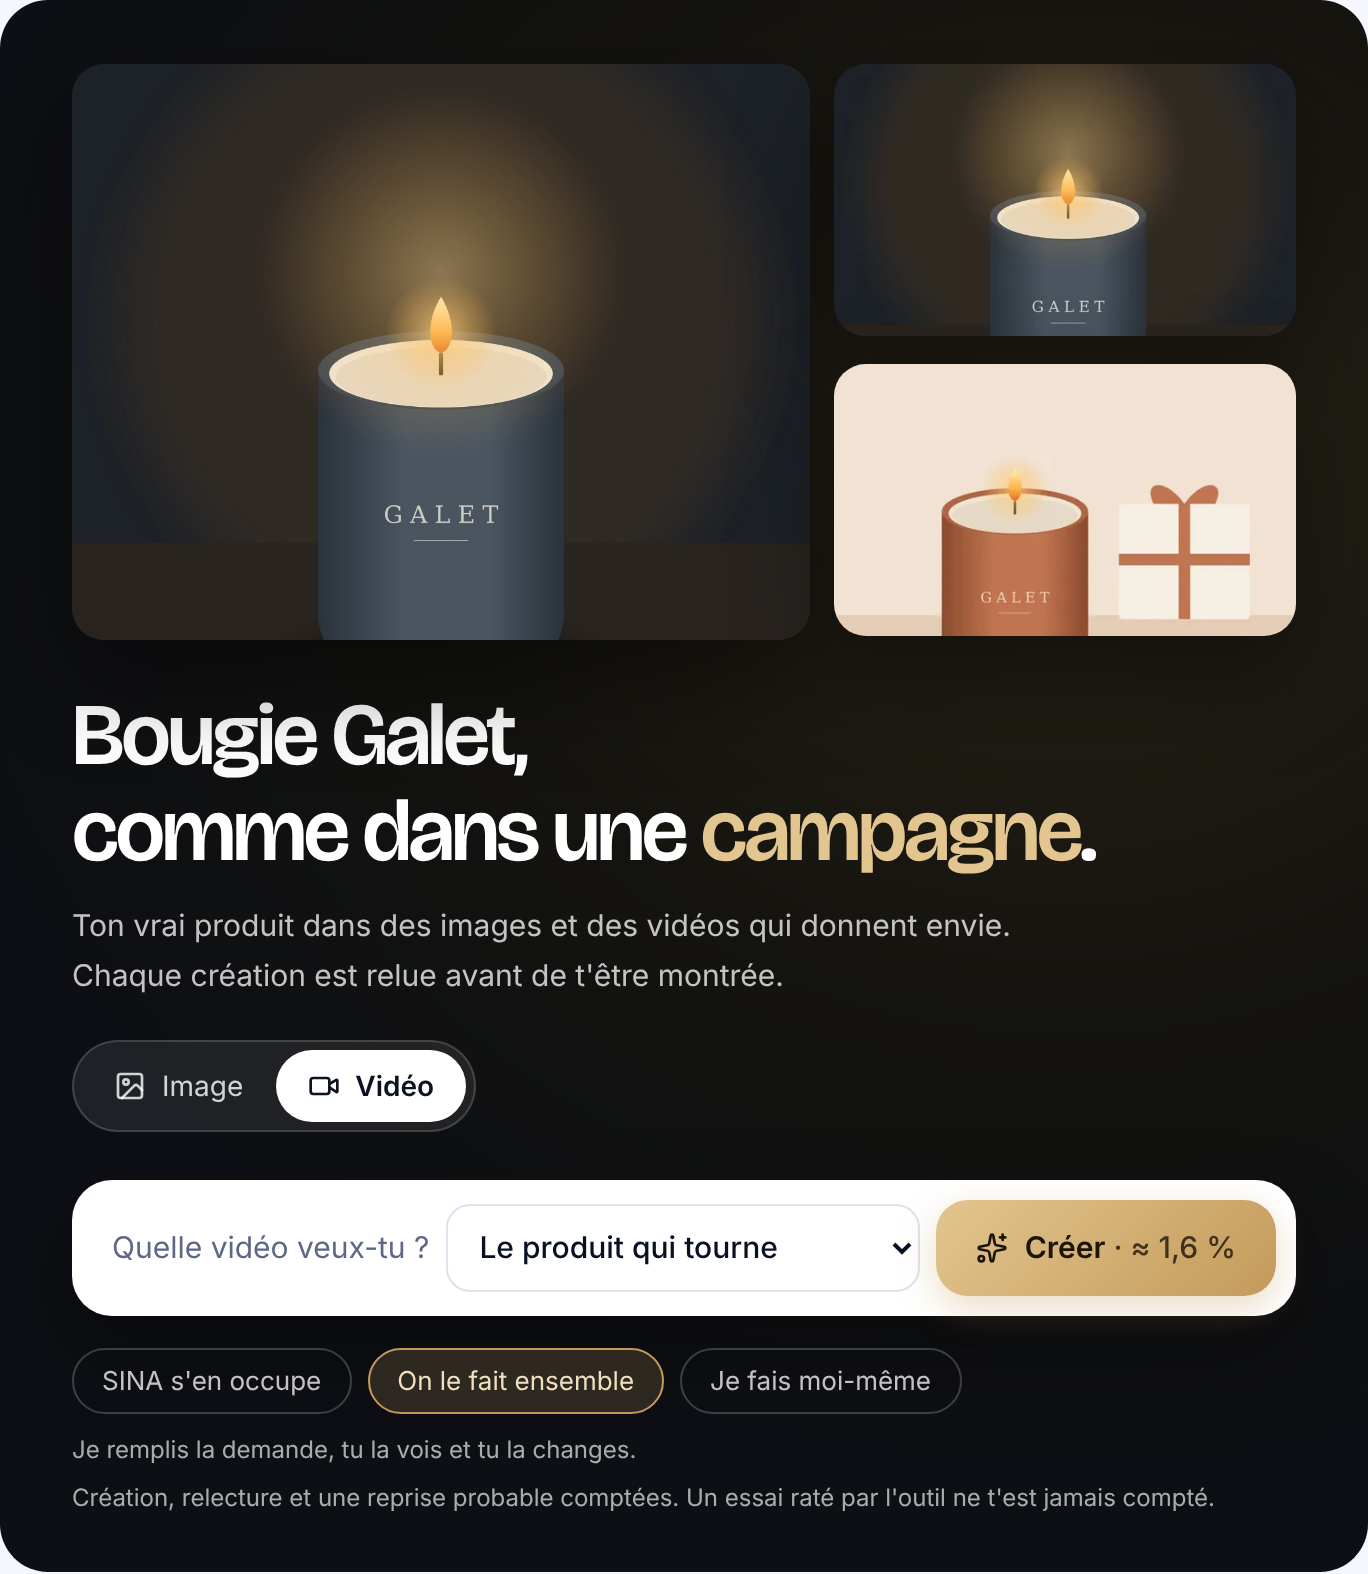
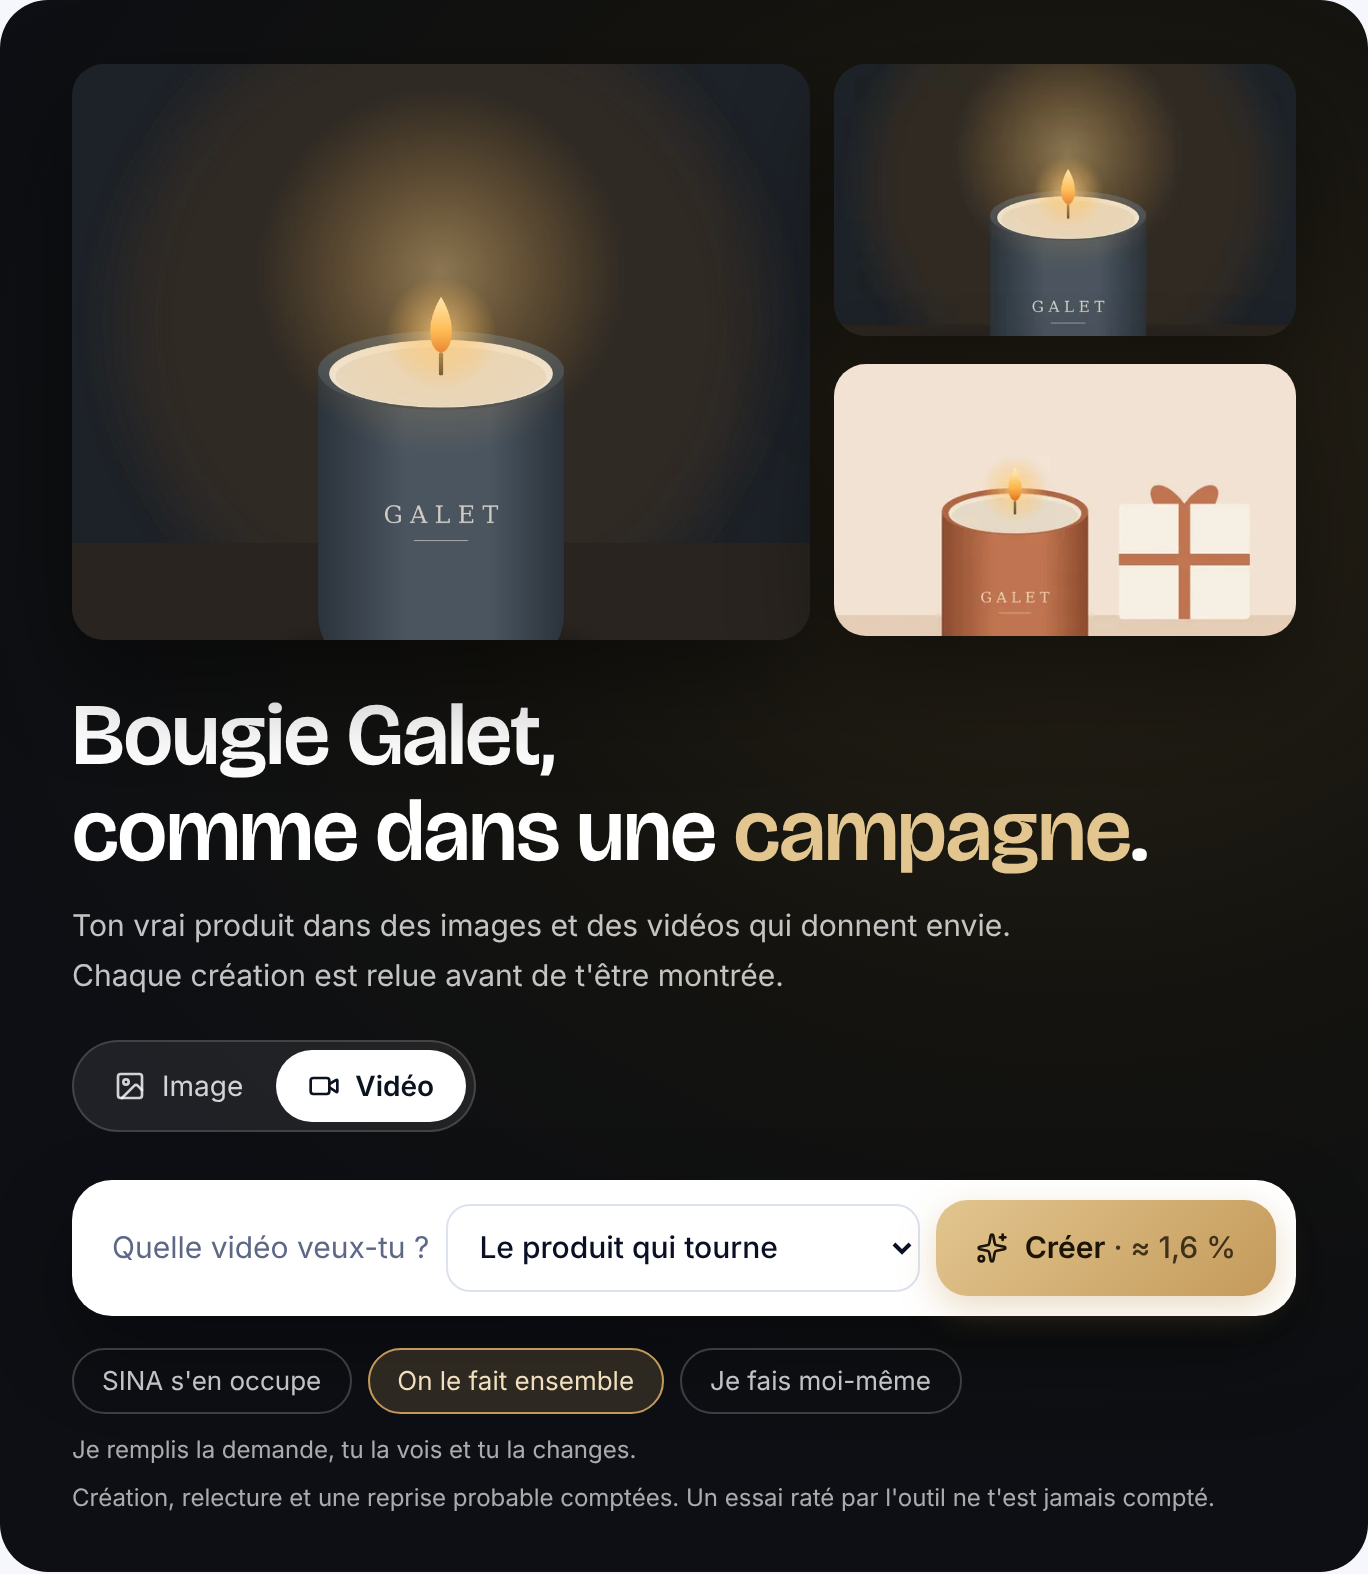
Atelier : « format vertical » au lieu de « story » en français, durée des modèles de vidéo tirée du devis, titres moins serrés, captures refaites

Changed region(s): [[0.0921, 0.4358, 0.8289, 0.5604]]

diff --git a/src/components/studio/tab-atelier.tsx b/src/components/studio/tab-atelier.tsx
@@ -26,7 +26,7 @@ type T2 = readonly [string, string];
 type OutilVue = { id: string; nom: T2; mieux: T2; disponible: boolean; conseille: boolean; redessine: boolean; secours: boolean; prixMicro: number | null; prix: string | null; prixCourt: string | null };
 type GesteVue = { id: string; nom: T2; aide: T2; kind: "image" | "video"; demande: { label: T2; exemple: T2; min: number } | null; outils: OutilVue[]; conseil: string | null };
 type ModeleImageVue = { id: string; nom: T2; idee: T2; offre?: boolean; format: string; epingle: boolean; dansJours: number | null };
-export type ModeleVideoVue = { id: string; nom: T2; quoi: T2; geste: string; dureeS: number; plans: number; garde: T2; as: "post" | "ad"; scene: string; sansIa?: boolean; offre?: boolean; outil: string | null; gratuit: boolean; prix: string | null; prixCourt: string | null; auPlus: string | null; raison: string | null; planSur?: string | null };
+export type ModeleVideoVue = { id: string; nom: T2; quoi: T2; geste: string; dureeS: number; /** La durée du devis : ce qui est vraiment fait et compté. */ dureeAffichee: number; secondesFilmees: number; plans: number; garde: T2; as: "post" | "ad"; scene: string; sansIa?: boolean; offre?: boolean; outil: string | null; gratuit: boolean; prix: string | null; prixCourt: string | null; auPlus: string | null; raison: string | null; planSur?: string | null };
 type Creation = { id: string; assetId: string | null; url: string | null; thumbUrl: string | null; geste: string; mode: string; kind: "image" | "video"; outil: string; cout: string; costMicro: number; status: "ok" | "rate" | "produit_modifie"; at: number; servie: boolean; usages: string[] };
 type PhotoProduit = { id: string; url: string; thumbUrl: string | null };
 type EnCours = { id: string; kind: "image" | "video"; progress: number | null; sourceUrl: string | null };
@@ -246,7 +246,7 @@ export function Scene({ etat, mode, setMode, type, setType, decor, setDecor, ajo
       {cost.dialog}
       <div className={cx("flex flex-col-reverse gap-6", images.length > 0 && "@4xl:grid @4xl:grid-cols-[minmax(0,1fr)_412px] @4xl:items-start @4xl:gap-8")}>
         <div>
-          <h2 id="atelier-titre" className="max-w-xl font-display text-[30px] font-semibold leading-[1.08] tracking-[-0.01em] @xl:text-[44px]" data-atelier-titre>
+          <h2 id="atelier-titre" className="max-w-xl font-display text-[30px] font-semibold leading-[1.08] @xl:text-[44px]" data-atelier-titre>
             {sujet},<br />{t("comme dans une ", "shot like a ")}<span className="text-[var(--or-1)]">{t("campagne", "campaign")}</span>.
           </h2>
           <p className="mt-3 max-w-[470px] text-[15px] leading-relaxed text-white/75">
@@ -357,7 +357,7 @@ export function VideosSection({ etat, onChoisir }: { etat: Etat; onChoisir: (m: 
                 {photo ? <img src={photo.url} alt="" loading="lazy" className="h-full w-full object-cover" />
                   : <div className="grid h-full place-items-center text-center text-sm text-white/70" data-atelier-ta-photo><span className="grid justify-items-center gap-1.5"><ImageIcon className="size-6" aria-hidden />{t("Ta photo ici", "Your photo here")}</span></div>}
                 <span className="absolute left-3 top-3 rounded-full bg-white/90 px-2.5 py-1 text-[11.5px] font-medium text-[#2A3246]">{pick(mv.nom, lang)}</span>
-                <span className="absolute right-3 top-3 rounded-full bg-black/60 px-2.5 py-1 text-xs font-semibold text-white">{t(`${m.dureeS} s`, `${m.dureeS}s`)}</span>
+                <span className="absolute right-3 top-3 rounded-full bg-black/60 px-2.5 py-1 text-xs font-semibold text-white" data-atelier-duree={m.id}>{t(`${m.dureeAffichee} s`, `${m.dureeAffichee}s`)}</span>
                 <span className="absolute bottom-3 left-3 grid size-9 place-items-center rounded-full bg-white/90 text-[#0B1220] shadow-[0_6px_16px_rgba(0,0,0,.25)]" aria-hidden><Play className="size-3.5 fill-current" /></span>
               </div>
               <div className="flex flex-1 flex-col p-3 @xl:p-4">
@@ -389,7 +389,7 @@ export function ModeleDialog({ etat, modele: m, onClose, projectId, onAvantApres
       {m && (
         <div className="grid gap-4" data-atelier-modele-choix={m.id}>
           <p className="text-sm">{pick(m.quoi, lang)}</p>
-          <p className="text-sm text-muted">{t(`${m.dureeS} secondes`, `${m.dureeS} seconds`)}{geste ? ` · ${pick(geste.nom, lang)}` : ""}</p>
+          <p className="text-sm text-muted" data-atelier-duree-choix={m.id}>{t(`${m.dureeAffichee} secondes`, `${m.dureeAffichee} seconds`)}{m.plans > 1 && m.secondesFilmees > 0 ? t(`, ${m.plans} plans filmés`, `, ${m.plans} filmed shots`) : ""}{geste ? ` · ${pick(geste.nom, lang)}` : ""}</p>
           <p className="flex items-start gap-2 rounded-2xl bg-warn-soft p-3 text-sm text-warn" data-atelier-garde={m.id}><ShieldCheck className="mt-0.5 size-4 shrink-0" aria-hidden />{pick(m.garde, lang)}</p>
           {m.offre && <p className="text-sm text-warn">{t("Écris ton offre dans la demande : je ne l'invente pas.", "Write your offer in the request: I don't invent it.")}</p>}
           {etat.produit.services && <p className="text-xs text-muted">{t("Pour une entreprise de services, les vidéos montrent ton métier et tes réalisations, jamais une personne inventée.", "For a service business, videos show your trade and your work, never an invented person.")}</p>}
@@ -521,7 +521,7 @@ function GesteDialog({ etat, ouvert, setOuvert, mode, onStarted, disabled }: { e
           <div className="grid gap-4" data-atelier-geste-dialog={geste.id}>
             {cadre && (
               <div className="inline-flex w-fit rounded-full border border-line p-1" role="radiogroup" aria-label={t("Format du cadre", "Frame format")}>
-                {(["story", "carre"] as const).map((g) => <button key={g} type="button" role="radio" aria-checked={geste.id === g} onClick={() => setOuvert({ geste: g })} data-atelier-format-cadre={g} className={cx("rounded-full px-4 py-1.5 text-sm", geste.id === g ? "bg-ink text-paper" : "text-ink")}>{g === "story" ? t("En hauteur, pour une story", "Tall, for a story") : t("En carré", "Square")}</button>)}
+                {(["story", "carre"] as const).map((g) => <button key={g} type="button" role="radio" aria-checked={geste.id === g} onClick={() => setOuvert({ geste: g })} data-atelier-format-cadre={g} className={cx("rounded-full px-4 py-1.5 text-sm", geste.id === g ? "bg-ink text-paper" : "text-ink")}>{g === "story" ? t("Format vertical", "Story (vertical)") : t("En carré", "Square")}</button>)}
               </div>
             )}
             <p className="text-sm text-muted">{pick(geste.aide, lang)}{geste.id === "lot" ? ` ${t(`Jusqu'à ${etat.lotMax} photos d'un coup ; le prix de toutes est donné avant.`, `Up to ${etat.lotMax} photos at once; the price for all of them is given first.`)}` : ""}</p>

diff --git a/tests/atelier-embelli.test.ts b/tests/atelier-embelli.test.ts
@@ -33,6 +33,15 @@ import { MODELES_VIDEOS } from "@/lib/atelier/modeles-videos";
 import { LangProvider } from "@/components/i18n";
 import { BarreCreation, imagesDeLaScene, ModeleDialog, MurCreations, RetouchesSection, Scene, VideosSection, type Etat, type ModeleVideoVue } from "@/components/studio/tab-atelier";
 import { seedImageFixture } from "./image-v2-fixtures";
+import { loadProject } from "@/lib/projects";
+import { devisVideoGuidee } from "@/lib/video-v2/guided-quote";
+import { reglagesDuModele } from "@/lib/atelier/modeles-videos";
+import { GESTES } from "@/lib/atelier/gestes";
+import { OUTILS, outilsPour, type GesteId } from "@/lib/atelier/outils";
+import { MODES, conseilOutil } from "@/lib/atelier/conseil";
+import { CONDITIONS } from "@/lib/atelier/garde-fous";
+import { MODELES_IMAGES } from "@/lib/atelier/modeles-images";
+import { SOUS_LE_PRIX } from "@/lib/atelier/prix";
 
 beforeEach(() => {
   vi.stubGlobal("fetch", vi.fn(() => { throw Error("HTTP provider forbidden"); }));
@@ -220,5 +229,54 @@ describe("l'atelier embelli : seule la présentation change", () => {
     expect(css).toMatch(/@media \(prefers-reduced-motion: reduce\) \{\s*\.atelier-apercu img, \.atelier-net, \.atelier-barre-indet \{ animation: none !important; \}/);
     // Jamais d'arche, de demi-lune ni de dôme : aucun arrondi seulement en haut, aucune ellipse.
     expect(src).not.toMatch(/rounded-t-|rounded-\[[^\]]*\/|ellipse|border-radius:\s*\d+%\s+\d+%/);
+  });
+
+  it("jamais « story » en français : le client lit « format vertical » partout dans l'atelier (retouché le 23 novembre 2026)", async () => {
+    const fr: string[] = [];
+    for (const g of Object.values(GESTES)) fr.push(g.nom[0], g.aide[0], g.demande?.label[0] ?? "", g.demande?.exemple[0] ?? "");
+    for (const o of OUTILS) fr.push(o.nom[0], o.mieux[0]);
+    for (const m of MODES) fr.push(m.nom[0], m.aide[0]);
+    for (const c of CONDITIONS) fr.push(c[0]);
+    for (const m of MODELES_VIDEOS) fr.push(m.nom[0], m.quoi[0], m.garde[0]);
+    for (const m of MODELES_IMAGES) fr.push(m.nom[0], m.idee[0]);
+    fr.push(SOUS_LE_PRIX[0]);
+    for (const g of Object.keys(GESTES) as GesteId[]) fr.push(conseilOutil(g, outilsPour(g, () => true), "fr") ?? "");
+    // Les libellés de l'écran : le premier texte (français) de chaque t("…", "…").
+    const src = fs.readFileSync("src/components/studio/tab-atelier.tsx", "utf8");
+    for (const m of src.matchAll(/\bt\(\s*(["`])((?:\\.|(?!\1).)*)\1/g)) fr.push(m[2]);
+    expect(fr.filter((x) => /story/i.test(x))).toEqual([]);
+    expect(GESTES.story.nom[0]).toBe("Format vertical");
+    // Et l'écran rendu en français non plus.
+    const { etat } = await projet();
+    const e = await etat();
+    const html = texte(rendu(h("div", null, scene(e), h(VideosSection, { etat: e, onChoisir: () => {} }), h(RetouchesSection, { etat: e, disabled: false, onGeste: () => {}, onScene: () => {}, onAvantApres: () => {} }))));
+    expect(html).not.toMatch(/story/i);
+    for (const g of e.gestes) { expect(g.nom[0]).not.toMatch(/story/i); expect(g.aide[0]).not.toMatch(/story/i); for (const o of g.outils) expect(o.mieux[0]).not.toMatch(/story/i); expect(g.conseil ?? "").not.toMatch(/story/i); }
+  });
+
+  it("la durée d'un modèle de vidéo est celle du devis (ce qui est vraiment fait et compté), sur la carte et dans sa fenêtre", async () => {
+    const { pid, etat } = await projet();
+    const e = await etat();
+    const p = loadProject(pid);
+    const cartes = rendu(h(VideosSection, { etat: e, onChoisir: () => {} }));
+    let filmes = 0;
+    for (const m of MODELES_VIDEOS) {
+      const vue = e.modelesVideos.find((x) => x.id === m.id)!;
+      let attendu = m.dureeS;
+      if (!m.sansIa) {
+        const r = reglagesDuModele(m);
+        const q = devisVideoGuidee(p, { ...r, subject: null, request: m.scene });
+        attendu = (q.generatedSeconds ?? 0) > 0 && r.scenes === 1 ? q.generatedSeconds! : r.totalS;
+        expect(vue.secondesFilmees, m.id).toBe(q.generatedSeconds ?? 0);
+        if ((q.generatedSeconds ?? 0) > 0) filmes++;
+      }
+      expect(vue.dureeAffichee, m.id).toBe(attendu);
+      expect(cartes, m.id).toContain(`data-atelier-duree="${m.id}">${attendu} s<`);
+      const fenetre = rendu(h(ModeleDialog, { etat: e, modele: vue, onClose: () => {}, projectId: pid, onAvantApres: () => {} }));
+      expect(texte(fenetre), m.id).toContain(`${attendu} secondes`);
+    }
+    expect(filmes).toBeGreaterThan(0);
+    // « Le produit qui tourne » et « Les détails » sont écrits 5 s dans le modèle, mais l'outil en fait et en compte plus.
+    for (const id of ["tourne", "details"]) expect(e.modelesVideos.find((x) => x.id === id)!.dureeAffichee, id).toBeGreaterThanOrEqual(6);
   });
 });

diff --git a/src/lib/atelier/service.ts b/src/lib/atelier/service.ts
@@ -68,14 +68,20 @@ export function prixDuGeste(userId: string, projectId: string, geste: GesteId, o
  * page de réglage et que SINA). `prix` : le coût probable ; `auPlus` : la borne haute de l'accord ; `raison` : pourquoi
  * il n'est pas ouvert. Le modèle gratuit (avant-après) n'a pas de devis.
  */
-export function prixModeleVideo(userId: string, p: Project, m: ModeleVideo): { estimateMicro: number; capMicro: number; prix: string | null; auPlus: string | null; outil: string | null; raison: string | null; planSur: string | null } {
+export function prixModeleVideo(userId: string, p: Project, m: ModeleVideo): { estimateMicro: number; capMicro: number; prix: string | null; auPlus: string | null; outil: string | null; raison: string | null; planSur: string | null; dureeS: number; secondesFilmees: number } {
   const lg = lang();
-  if (m.sansIa) return { estimateMicro: 0, capMicro: 0, prix: lg === "fr" ? "Gratuit" : "Free", auPlus: null, outil: null, raison: null, planSur: null };
-  const q = devisVideoGuidee(p, { ...reglagesDuModele(m), subject: null, request: m.scene });
-  if (!q.allowed) return { estimateMicro: 0, capMicro: 0, prix: null, auPlus: null, outil: null, raison: q.reason ?? null, planSur: null };
+  if (m.sansIa) return { estimateMicro: 0, capMicro: 0, prix: lg === "fr" ? "Gratuit" : "Free", auPlus: null, outil: null, raison: null, planSur: null, dureeS: m.dureeS, secondesFilmees: 0 };
+  const reglages = reglagesDuModele(m);
+  const q = devisVideoGuidee(p, { ...reglages, subject: null, request: m.scene });
+  // La durée montrée est celle du devis (ce qui est vraiment fait et compté), jamais le nombre écrit dans le modèle :
+  // un seul plan filmé dure ce que l'outil filme (Veo 3.1 Lite : 6 s) ; plusieurs plans, ou le plan sûr sans modèle
+  // vidéo (rien n'est filmé), durent ce que dure la vidéo montée.
+  const secondesFilmees = q.generatedSeconds ?? 0;
+  const dureeS = secondesFilmees > 0 && reglages.scenes === 1 ? secondesFilmees : reglages.totalS;
+  if (!q.allowed) return { estimateMicro: 0, capMicro: 0, prix: null, auPlus: null, outil: null, raison: q.reason ?? null, planSur: null, dureeS, secondesFilmees };
   const base = pctBaseFor(userId, p.id), route = q.routes?.clip;
   // Sans modèle vidéo utilisable : le plan sûr (vrai produit détouré, caméra au montage), dit au client en clair.
-  return { estimateMicro: q.estimateMicro, capMicro: q.capMicro, prix: q.estimateMicro > 0 ? prixTexte(q.estimateMicro, base, lg) : lg === "fr" ? "Gratuit" : "Free", auPlus: q.capMicro > q.estimateMicro ? auPlusTexte(q.capMicro, base, lg) : null, outil: route ? `${route.provider}:${route.model}` : null, raison: null, planSur: q.planSur ?? null };
+  return { estimateMicro: q.estimateMicro, capMicro: q.capMicro, prix: q.estimateMicro > 0 ? prixTexte(q.estimateMicro, base, lg) : lg === "fr" ? "Gratuit" : "Free", auPlus: q.capMicro > q.estimateMicro ? auPlusTexte(q.capMicro, base, lg) : null, outil: route ? `${route.provider}:${route.model}` : null, raison: null, planSur: q.planSur ?? null, dureeS, secondesFilmees };
 }
 
 /** Le plafond des vidéos de l'atelier ce mois-ci, pour ce projet. */
@@ -172,7 +178,7 @@ export function etatAtelier(userId: string, p: Project) {
     modelesImages: modelesPour(new Date(), { offreSaisie: false }).map(({ date: _d, mois: _m, ...m }) => m),
     modelesVideos: MODELES_VIDEOS.map((m) => {
       const d = prixModeleVideo(userId, p, m);
-      return { ...m, outil: d.outil, gratuit: !!m.sansIa, prix: d.prix, prixCourt: m.sansIa ? d.prix : d.prix && d.estimateMicro > 0 ? prixCourt(d.estimateMicro, base, lg) : d.prix, auPlus: d.auPlus, raison: d.raison, planSur: d.planSur, estimateMicro: d.estimateMicro, capMicro: d.capMicro };
+      return { ...m, dureeAffichee: d.dureeS, secondesFilmees: d.secondesFilmees, outil: d.outil, gratuit: !!m.sansIa, prix: d.prix, prixCourt: m.sansIa ? d.prix : d.prix && d.estimateMicro > 0 ? prixCourt(d.estimateMicro, base, lg) : d.prix, auPlus: d.auPlus, raison: d.raison, planSur: d.planSur, estimateMicro: d.estimateMicro, capMicro: d.capMicro };
     }),
     gestesCamera: GESTES_CAMERA.map(({ id, nom }) => ({ id, nom })),
     musique: { style: musique.style, nom: nomMusique(musique.style, lg), elevenlabs: ELEVENLABS_BRANCHE, raison: ELEVENLABS_RAISON },

diff --git a/src/lib/atelier/gestes.ts b/src/lib/atelier/gestes.ts
@@ -4,7 +4,7 @@
  *  - « Mets mon produit dans une scène » : la scène est créée par OpenAI avec la vraie photo en référence, puis
  *    contrôlée (forme, proportions, couleur comparées au détourage ; le juge lit l'étiquette mot à mot) ;
  *  - « Change le fond », « Retire un objet » : une seule chose change, le reste ne bouge pas ;
- *  - « Version story », « Version carrée » : le cadre est agrandi autour de la photo intacte ;
+ *  - « Format vertical » (la story des réseaux ; jamais un mot anglais pour le client), « Version carrée » : le cadre est agrandi autour de la photo intacte ;
  *  - « Tout mon catalogue » : le même geste sur toutes les photos de produit, d'un coup.
  *
  * Les consignes envoyées à l'outil sont écrites ici, une seule fois (la même pour le devis et pour la création). Les
@@ -36,7 +36,7 @@ export const GESTES: Record<GesteId, Geste> = {
     demande: { label: ["Le nouveau fond", "The new background"], exemple: ["un mur de pierre clair", "a light stone wall"], min: 3 },
   },
   story: {
-    id: "story", kind: "image", cible: "9:16", nom: ["Version story", "Story version"],
+    id: "story", kind: "image", cible: "9:16", nom: ["Format vertical", "Story version"],
     aide: ["Le cadre s'agrandit en hauteur autour de ta photo, qui ne change pas.", "The frame grows taller around your photo, which doesn't change."],
   },
   carre: {

diff --git a/src/lib/atelier/outils.ts b/src/lib/atelier/outils.ts
@@ -61,7 +61,7 @@ export const OUTILS: Outil[] = [
   {
     id: "bfl:flux-pro-1.0-expand", provider: "bfl", model: "flux-pro-1.0-expand", kind: "image",
     nom: ["Flux Agrandir (Black Forest Labs)", "Flux Expand (Black Forest Labs)"],
-    mieux: ["Agrandit le cadre pour faire la story ou le carré, sans toucher à ta photo.", "Extends the frame to make the story or the square, without touching your photo."],
+    mieux: ["Agrandit le cadre pour faire le format vertical ou le carré, sans toucher à ta photo.", "Extends the frame to make the story or the square, without touching your photo."],
     gestes: ["story", "carre"], redessine: false,
     rang: { story: 2, carre: 2 },
   },

diff --git a/src/app/globals.css b/src/app/globals.css
@@ -325,3 +325,6 @@ html:not(.js) .hp .reveal { opacity: 1; transform: none; }
   .atelier-apercu img, .atelier-net, .atelier-barre-indet { animation: none !important; }
   .atelier-barre-indet { width: 100%; opacity: .45; }
 }
+/* Titres de l'atelier (23 novembre 2026) : lettres moins serrées que la police d'affichage du Studio, -0,01 em au plus
+   serré, sur ordinateur comme sur téléphone (fenêtres de l'atelier comprises). */
+[data-atelier] .font-display, [data-atelier] h2, [data-atelier] h3, [data-atelier] h4 { letter-spacing: -0.01em; }
